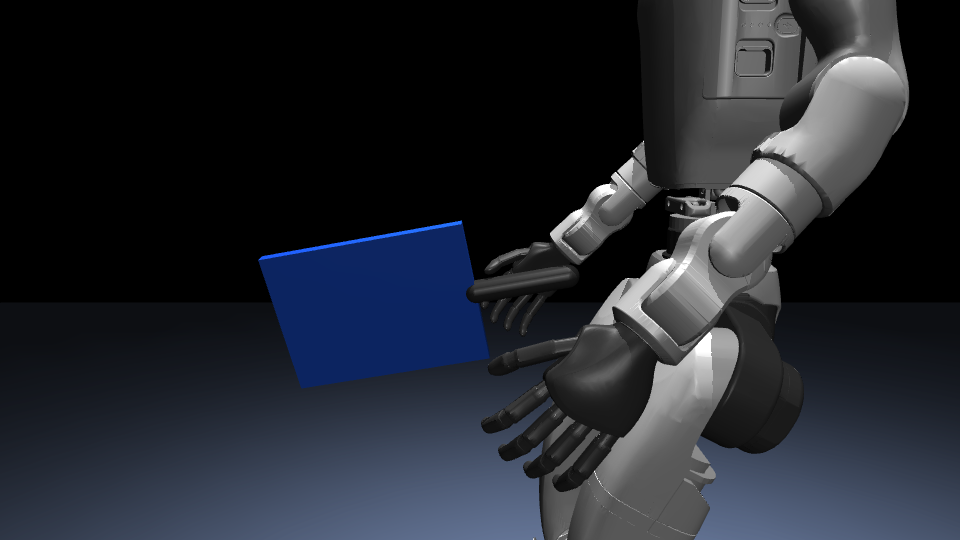
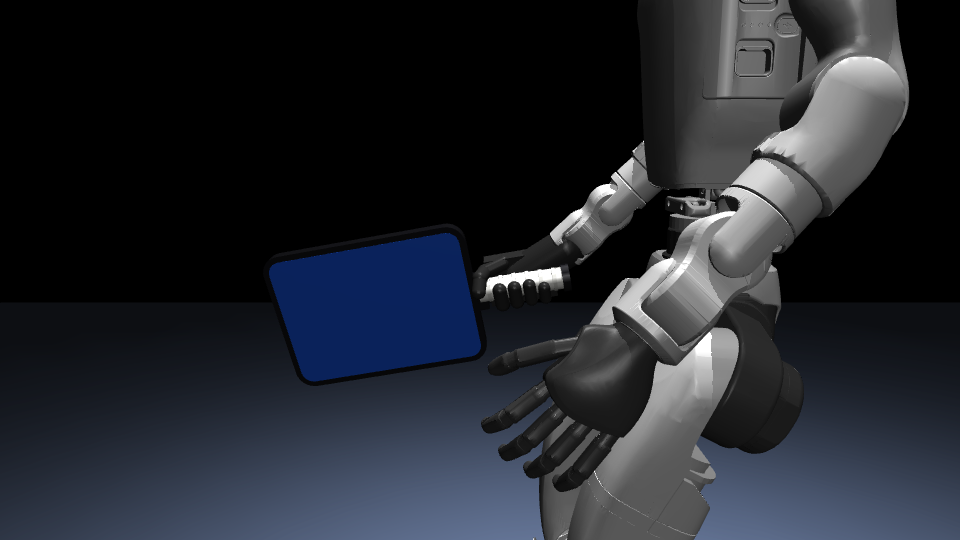
mjlab: visual closed hand for grip v2 and a standard-shape paddle look
Visual only: rounded-corner face with edge guard, throat, wrapped grip with
overgrip bands and butt cap; the reference box and handle are kept hidden.
No change to mass, contacts or the analytic ball contact.

Changed region(s): [[0.25, 0.4148, 0.625, 0.6815], [0.2812, 0.5333, 0.4375, 0.7407]]

diff --git a/mjlab/picklebot_mj/g1_paddle.py b/mjlab/picklebot_mj/g1_paddle.py
@@ -48,6 +48,7 @@ class GripCfg:
     name: str
     tilt_deg: float
     handle_centre: tuple[float, float, float]
+    closed_hand: bool = False  # visual only: hide the open-hand mesh, draw fingers wrapped on the handle
 
 
 # v1: Stage 2 mount (handle centred on the palm site, in line with the hand). Close-ups showed
@@ -57,7 +58,7 @@ FACE_CENTRE_X = PALM_X + HANDLE_LENGTH / 2 + PADDLE_HALF[1]  # v1 face centre al
 # v2: handshake grip. The handle crosses the palm 35 deg toward the thumb, held in the finger curl
 # (+y) and slid out so the face clears every hand-mesh vertex by >= 3 mm
 # (scripts/fit_grip.py, 2026-10-02).
-GRIP_V2 = GripCfg("v2-handshake", 35.0, (0.1084, 0.025, 0.0129))
+GRIP_V2 = GripCfg("v2-handshake", 35.0, (0.1084, 0.025, 0.0129), closed_hand=True)
 DEFAULT_GRIP = GRIP_V1
 
 
@@ -78,6 +79,58 @@ def paddle_pose_in_wrist(grip: GripCfg):
     return centre, quat
 
 
+HAND_RGBA = [0.13, 0.13, 0.13, 1.0]
+HIDDEN_GROUP = 5  # not drawn by the default viewers/renderers (groups 0-3)
+PADDLE_CORNER_RADIUS = 0.0254  # Unity CourtGeometryV1.PaddleCornerRadius (1 in)
+EDGE_GUARD = 0.008  # visible edge-guard band width
+FACE_RGBA = [0.08, 0.28, 0.75, 1.0]
+GUARD_RGBA = [0.06, 0.06, 0.07, 1.0]
+GRIP_RGBA = [0.9, 0.9, 0.88, 1.0]
+CAP_RGBA = [0.08, 0.08, 0.09, 1.0]
+
+
+def _rounded_rect(body, prefix, half_w, half_l, half_t, r, rgba, y0=0.0):
+    """Visual rounded rectangle in the body x-y plane (thickness along z) from boxes and cylinders."""
+    kw = dict(contype=0, conaffinity=0, group=2, mass=0, rgba=rgba)
+    body.add_geom(name=f"{prefix}_mid", type=mujoco.mjtGeom.mjGEOM_BOX, pos=[0, y0, 0],
+                  size=[half_w - r, half_l, half_t], **kw)
+    for sx in (-1, 1):
+        body.add_geom(name=f"{prefix}_side{'p' if sx > 0 else 'n'}", type=mujoco.mjtGeom.mjGEOM_BOX,
+                      pos=[sx * (half_w - r / 2), y0, 0], size=[r / 2, half_l - r, half_t], **kw)
+        for sy in (-1, 1):
+            body.add_geom(name=f"{prefix}_corner{'p' if sx > 0 else 'n'}{'p' if sy > 0 else 'n'}",
+                          type=mujoco.mjtGeom.mjGEOM_CYLINDER, size=[r, half_t, 0],
+                          pos=[sx * (half_w - r), y0 + sy * (half_l - r), 0], **kw)
+
+
+def add_paddle_visual(paddle) -> None:
+    """Standard-shape paddle look (16 x 8 in overall, 5 in handle): rounded face, edge guard,
+    throat, wrapped grip with overgrip bands and a butt cap. Visual only.
+
+    The analytic ball contact still uses the face box (PADDLE_HALF); the rounded corners
+    remove ~1 % of the face area, which only matters for corner hits.
+    """
+    hw, hl, ht = PADDLE_HALF
+    r = PADDLE_CORNER_RADIUS
+    _rounded_rect(paddle, "guard", hw, hl, ht, r, GUARD_RGBA)  # edge guard = outer rim
+    _rounded_rect(paddle, "skin", hw - EDGE_GUARD, hl - EDGE_GUARD, ht + 0.0004, r - EDGE_GUARD, FACE_RGBA)
+    kw = dict(contype=0, conaffinity=0, group=2, mass=0)
+    # Throat: the face narrows into the handle.
+    paddle.add_geom(name="throat", type=mujoco.mjtGeom.mjGEOM_BOX, pos=[0, -hl - 0.006, 0],
+                    size=[0.026, 0.008, ht * 0.9], rgba=GUARD_RGBA, **kw)
+    # Grip: wrapped handle, raised overgrip bands, flared butt cap.
+    hy = -(hl + HANDLE_LENGTH / 2)
+    rot_y = [0.7071068, 0.7071068, 0.0, 0.0]  # cylinder/capsule axis along paddle y
+    paddle.add_geom(name="grip_wrap", type=mujoco.mjtGeom.mjGEOM_CYLINDER, pos=[0, hy, 0], quat=rot_y,
+                    size=[HANDLE_RADIUS, HANDLE_LENGTH / 2 - 0.004, 0], rgba=GRIP_RGBA, **kw)
+    for i, dy in enumerate((-0.045, -0.027, -0.009, 0.009, 0.027, 0.045)):
+        paddle.add_geom(name=f"grip_band{i}", type=mujoco.mjtGeom.mjGEOM_CYLINDER, pos=[0, hy + dy, 0],
+                        quat=rot_y, size=[HANDLE_RADIUS + 0.0012, 0.0025, 0], rgba=[0.78, 0.78, 0.76, 1], **kw)
+    paddle.add_geom(name="butt_cap", type=mujoco.mjtGeom.mjGEOM_CYLINDER,
+                    pos=[0, hy - HANDLE_LENGTH / 2 + 0.003, 0], quat=rot_y,
+                    size=[HANDLE_RADIUS + 0.004, 0.005, 0], rgba=CAP_RGBA, **kw)
+
+
 def attach_paddle(spec: mujoco.MjSpec, grip: GripCfg | None = None) -> mujoco.MjsBody:
     grip = grip or DEFAULT_GRIP
     pos, quat = paddle_pose_in_wrist(grip)
@@ -96,14 +149,65 @@ def attach_paddle(spec: mujoco.MjSpec, grip: GripCfg | None = None) -> mujoco.Mj
     paddle.ipos = [0.0, com_y, 0.0]
     paddle.iquat = [1.0, 0.0, 0.0, 0.0]
     paddle.inertia = [ixx, iyy, izz]
+    # Reference shapes used by the analytic ball contact (box face) and the handle axis; hidden,
+    # because the drawn paddle below is a styled version of the same dimensions.
     paddle.add_geom(name="paddle_face", type=mujoco.mjtGeom.mjGEOM_BOX, size=list(PADDLE_HALF),
-                    rgba=[0.1, 0.3, 0.8, 1.0], contype=0, conaffinity=0, group=2, mass=0)
+                    rgba=[0.1, 0.3, 0.8, 1.0], contype=0, conaffinity=0, group=HIDDEN_GROUP, mass=0)
     paddle.add_geom(name="paddle_handle", type=mujoco.mjtGeom.mjGEOM_CAPSULE,
                     size=[HANDLE_RADIUS, HANDLE_LENGTH / 2, 0.0], pos=[0.0, handle_y, 0.0],
                     quat=[0.7071068, 0.7071068, 0.0, 0.0], rgba=[0.15, 0.15, 0.15, 1.0],
-                    contype=0, conaffinity=0, group=2, mass=0)
+                    contype=0, conaffinity=0, group=HIDDEN_GROUP, mass=0)
+    add_paddle_visual(paddle)
     paddle.add_site(name="paddle_face_centre", pos=[0, 0, 0], size=[0.01, 0, 0])
+    if grip.closed_hand:
+        add_closed_hand(spec, grip)
     return paddle
+
+
+
+
+def _capsule(body, name, a, b, r):
+    body.add_geom(name=name, type=mujoco.mjtGeom.mjGEOM_CAPSULE, fromto=list(a) + list(b), size=[r, 0, 0],
+                  rgba=HAND_RGBA, contype=0, conaffinity=0, group=2, mass=0)
+
+
+def add_closed_hand(spec: mujoco.MjSpec, grip: GripCfg) -> None:
+    """Visual-only closed hand around the handle (no mass, no contacts; physics unchanged).
+
+    The G1 rubber hand is a single rigid open-hand mesh. It is moved to a hidden geom
+    group and replaced by a palm, four curled fingers and a thumb wrapped around the handle.
+    Built in the wrist frame from the paddle pose: handle axis = paddle +y; the palm sits
+    on the paddle -z side of the handle (the palm normal is the paddle normal).
+    """
+    wrist = spec.body(WRIST_BODY)
+    for g in wrist.geoms:
+        if g.type == mujoco.mjtGeom.mjGEOM_MESH and "rubber_hand" in (g.meshname or ""):
+            g.group = HIDDEN_GROUP
+    c, q = paddle_pose_in_wrist(grip)
+    R = np.zeros(9)
+    mujoco.mju_quat2Mat(R, q)
+    R = R.reshape(3, 3)
+    hy = -(PADDLE_HALF[1] + HANDLE_LENGTH / 2)  # handle centre along the paddle y axis
+    to_wrist = lambda x, y, z: c + R @ np.array([x, y, z])
+    rf, ring = 0.0095, HANDLE_RADIUS + 0.0095
+    pt = lambda deg, y: to_wrist(ring * math.cos(math.radians(deg)), y, ring * math.sin(math.radians(deg)))
+    # Palm pad behind the handle, and the back of the hand joining it to the wrist link.
+    palm = to_wrist(0.0, hy, -(HANDLE_RADIUS + 0.013))
+    wrist.add_geom(name="hand_palm", type=mujoco.mjtGeom.mjGEOM_BOX, pos=palm.tolist(), quat=q.tolist(),
+                   size=[0.034, 0.047, 0.012], rgba=HAND_RGBA, contype=0, conaffinity=0, group=2, mass=0)
+    _capsule(wrist, "hand_back", (0.035, 0.0, 0.0), palm, 0.028)
+    # Four fingers stacked along the handle (index nearest the face), curled from the palm edge
+    # around the far side of the handle.
+    for i, dy in enumerate((0.030, 0.010, -0.010, -0.029)):
+        y = hy + dy
+        arc = [-125, -180, 130, 75] if i < 3 else [-125, -180, 135, 90]
+        for k in range(len(arc) - 1):
+            _capsule(wrist, f"hand_finger{i}_{k}", pt(arc[k], y), pt(arc[k + 1], y), rf - 0.0005 * i)
+    # Thumb across the top of the handle, toward the index finger.
+    ty = hy + 0.048
+    _capsule(wrist, "hand_thumb_0", to_wrist(0.026, hy + 0.020, -(HANDLE_RADIUS + 0.008)), pt(-35, ty), 0.0105)
+    _capsule(wrist, "hand_thumb_1", pt(-35, ty), pt(25, ty + 0.006), 0.0100)
+    _capsule(wrist, "hand_thumb_2", pt(25, ty + 0.006), pt(70, ty + 0.010), 0.0095)
 
 
 def get_spec(grip: GripCfg | None = None) -> mujoco.MjSpec:
